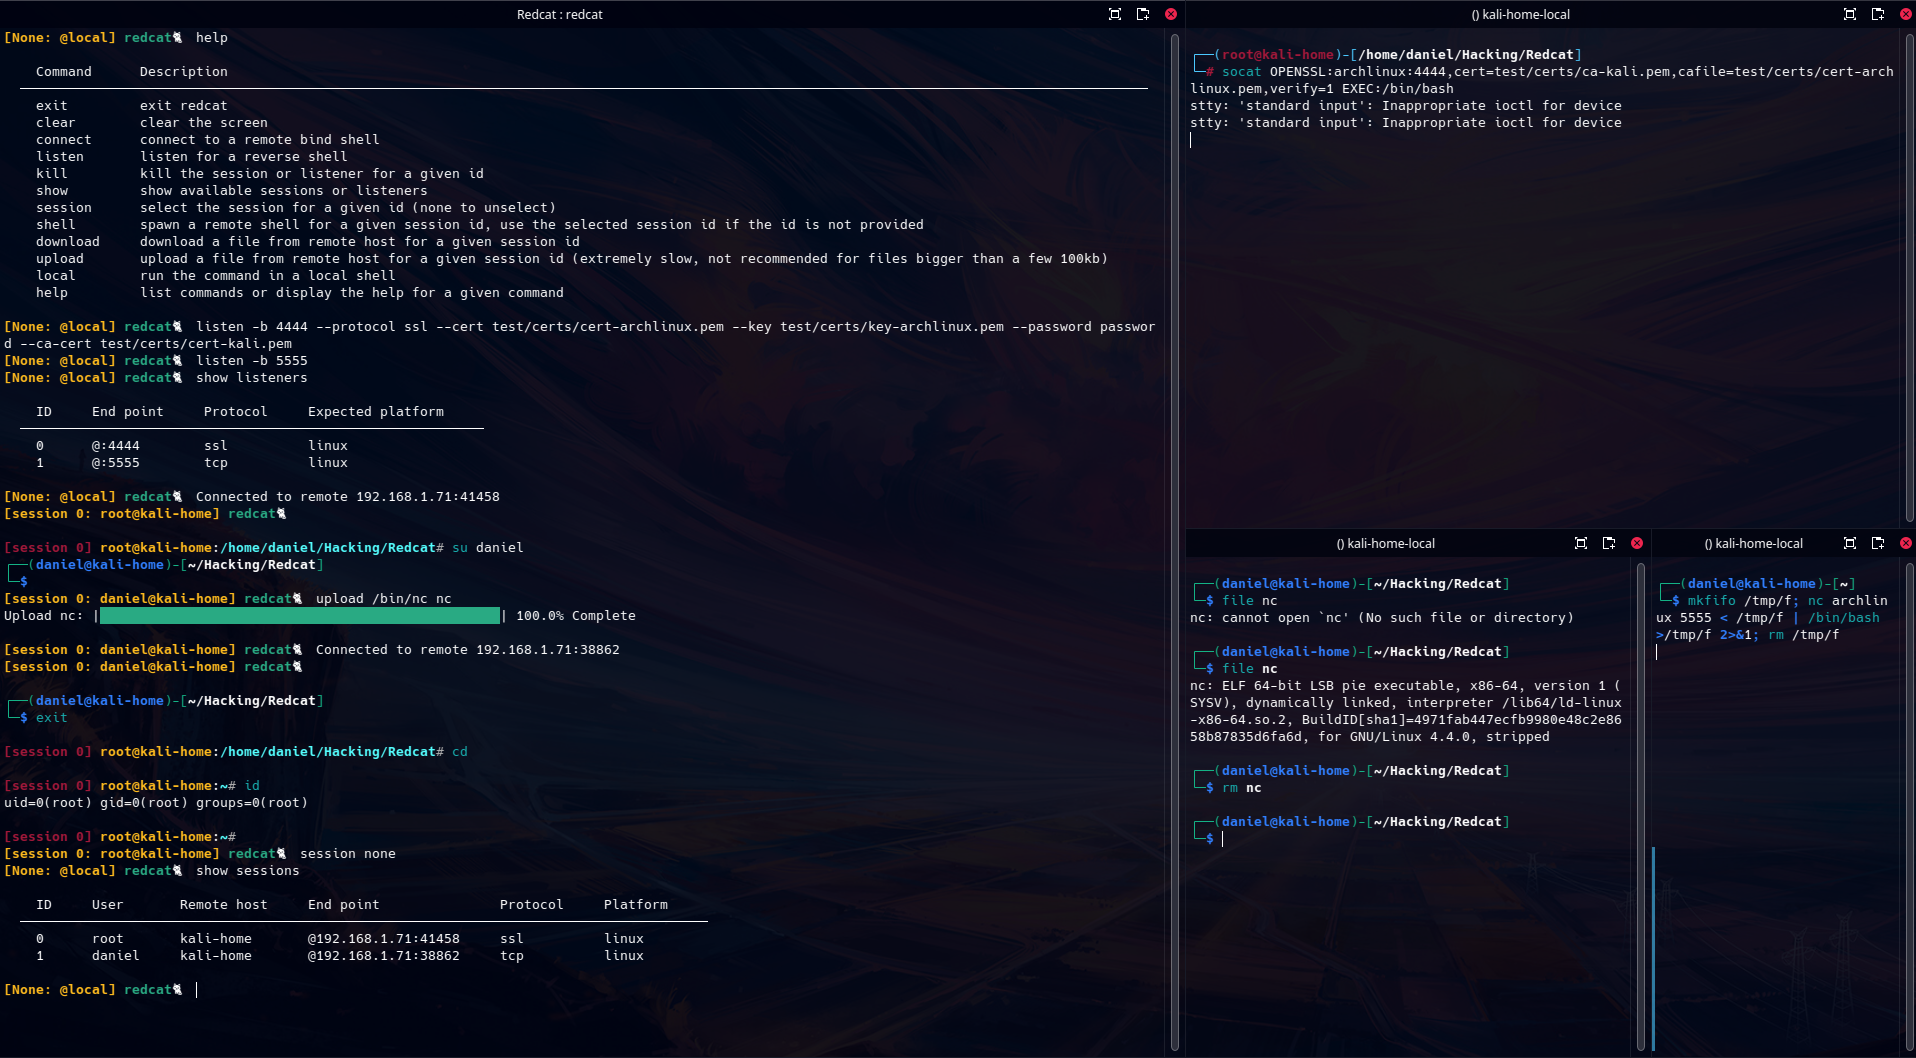
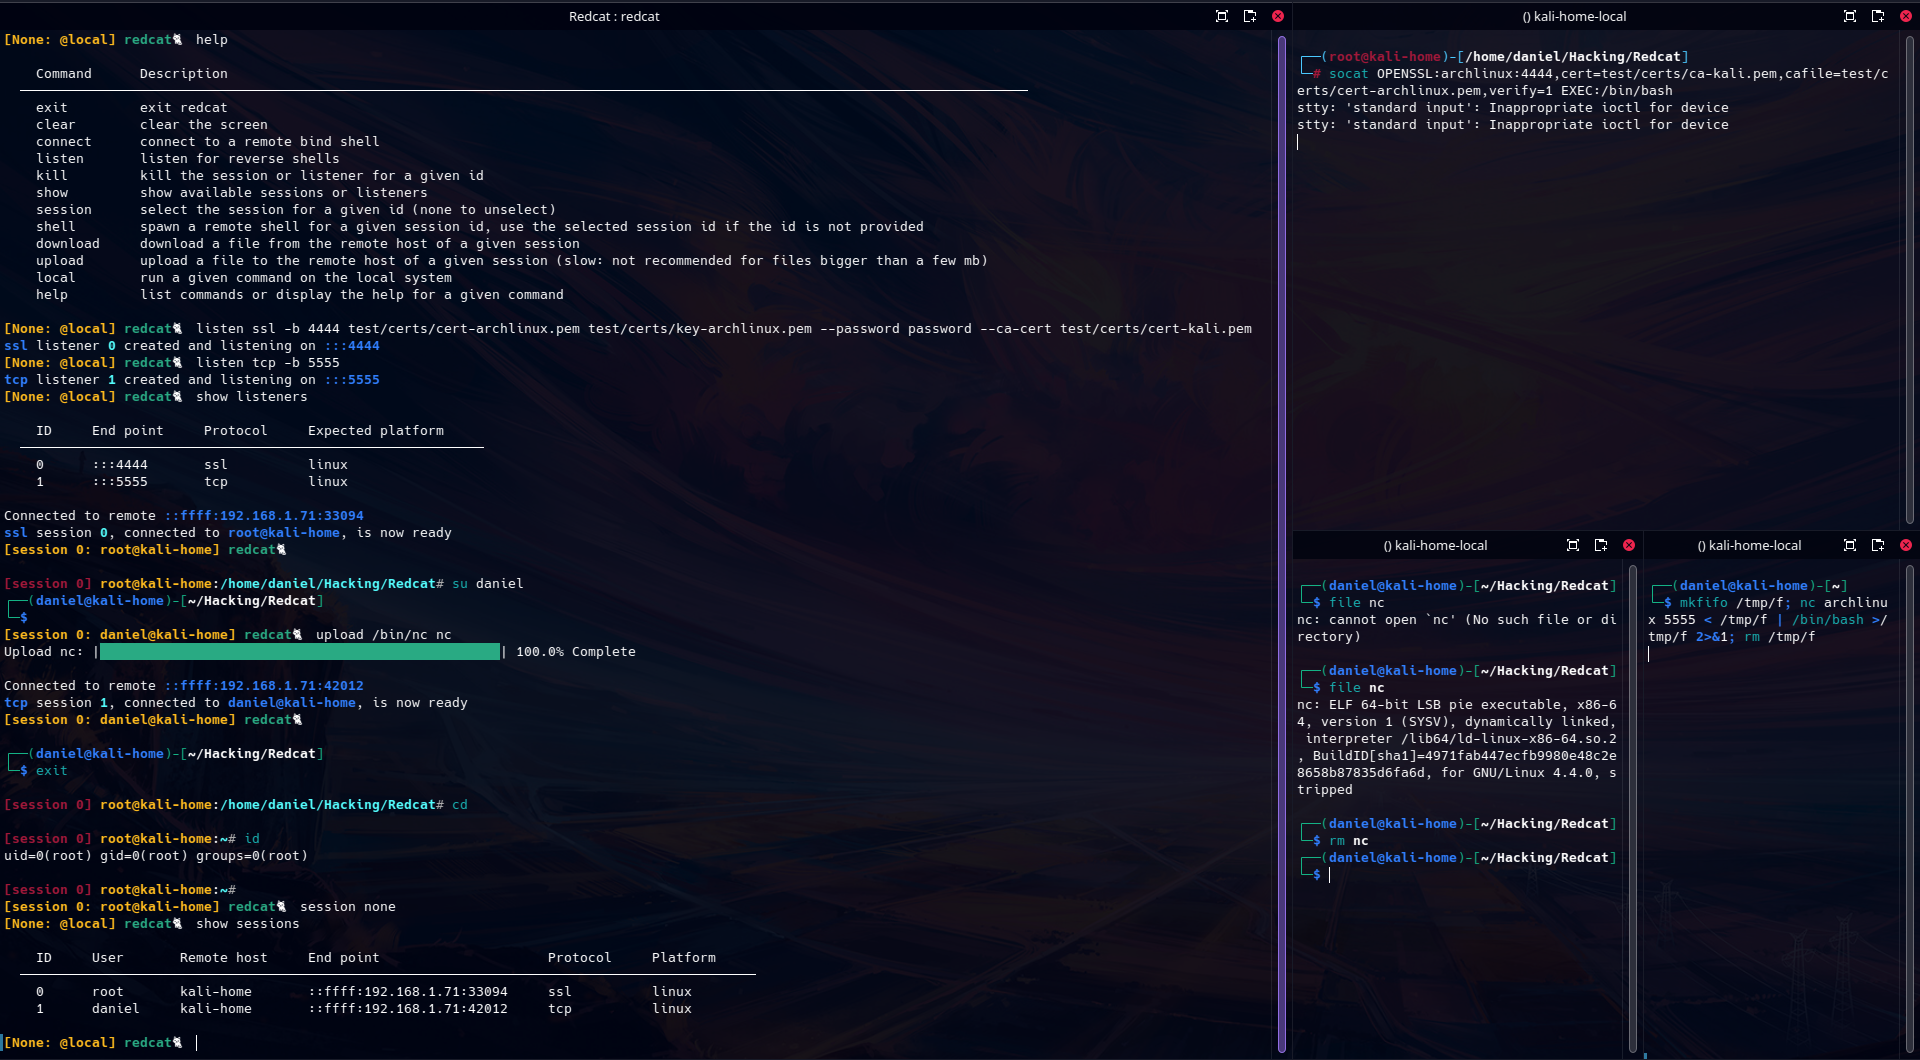
update: readme, capture and improve: logs

Changed region(s): [[0.0, 0.0, 1.0, 0.9981], [0.2463, 0.0, 0.3695, 0.0312]]

diff --git a/redcat/engine.py b/redcat/engine.py
@@ -171,13 +171,17 @@ class Engine:
             return res, error
         self.__commands[cmd_show.name] = cmd_show
         # select session command
-        cmd_session = redcat.command.Command("session", self.__manager.select_session, "select the session for a given id (none to unselect)")
-        @cmd_session.command(None)
+        cmd_session = redcat.command.Command("session", self, "select the session for a given id (none to unselect)")
+        @cmd_session.command(
+            [
+                redcat.command.argument("id", type=str, nargs=1, help="id of the session")
+            ]
+        )
         def session(parent: Engine, **kwargs) -> typing.Tuple[bool, str]:
             """
             select the session for a given id (none to unselect)
             """
-            res, error = parent.manager.session(**kwargs)
+            res, error = parent.manager.select_session(**kwargs)
             return res, error
         self.__commands[cmd_session.name] = cmd_session
         # remote shell command

diff --git a/redcat/manager.py b/redcat/manager.py
@@ -110,7 +110,9 @@ class Manager:
                             self.__selected_id = sess.id
                         res = True
                         if self.__logger_callback:
-                            self.__logger_callback(f"session {redcat.style.bold(redcat.style.blue(sess.id))}, connected to {sess.user}@{sess.hostname}, is now ready")
+                            self.__logger_callback(f"{redcat.style.bold(redcat.style.blue(sess.protocol[1]))} " + 
+                                f"session {redcat.style.bold(redcat.style.darkcyan(sess.id))}, " + 
+                                f"connected to {redcat.style.bold(redcat.style.blue(sess.user + '@' + sess.hostname))}, is now ready")
                     break
         if not res:
             sess.close()

diff --git a/redcat/listener/ssllistener.py b/redcat/listener/ssllistener.py
@@ -50,7 +50,8 @@ class SslListener(redcat.listener.tcplistener.TcpListener):
                     chan = self.build_channel(remote=remote, sock=sock, protocol=redcat.channel.ChannelProtocol.SSL, ssl_context=self.__ssl_context)
                 except Exception as err:
                     error = redcat.utils.get_error(err)
-                    print(redcat.style.bold(redcat.style.red("[!] error: ")) + error)
+                    if self.__logger_callback:
+                        self.__logger_callback(redcat.style.bold(redcat.style.red("[!] error: ")) + error)
                     chan = None # TODO: Think about a way to report this error
         return chan
 

diff --git a/redcat/listener/__init__.py b/redcat/listener/__init__.py
@@ -64,7 +64,9 @@ class Listener:
         if res:
             self.__thread = threading.Thread(target=self.__run)
             self.__thread.start()
-            self.__logger_callback(f"listener {redcat.style.blue(self.__id)} created and listening on {self.endpoint}")
+            self.__logger_callback(f"{redcat.style.bold(redcat.style.blue(self.protocol[1]))} listener " + 
+                f"{redcat.style.bold(redcat.style.darkcyan(self.__id))} created " +
+                f"and listening on {redcat.style.bold(redcat.style.blue(self.endpoint))}")
         else:
             self.__error_callback(self, error)
         return res, error

diff --git a/README.md b/README.md
@@ -1,6 +1,7 @@
 # Redcat
 
-A remote shell handler implemented in python for CTFs, pentest and red team engagements.
+A remote shell handler implemented in python for CTF, pentest and red team engagements.
+
 
 ## Features:
 * A session manager for handling mutiple listeners and shells at once.
@@ -11,5 +12,64 @@ A remote shell handler implemented in python for CTFs, pentest and red team enga
 * Basic data exfiltration for file download and upload.
 * Limited windows support (no pty).
 * Internal command-line completion.
+
+
+redcat handles the low level communications and allow the user to easily manage the remote shells and automate some actions like file upload and download.
+
+redcat mostly supports linux target platforms but minimal also provide minimal support for windows targets.
+
+
+## Sessions
+
+A session represents a single instance of communication between the attacker and a remote shell.
+
+Sessions can be created via listeners for reverse shells or directly using the `connect` command for bind shells.
+
+Sessions can be listed using the command `show sessions`
+
+The user can "select" a session that would act as the default session commands are called for when no session id is provided by the user.
+To select a session the user can use the command `session` followed by the session's id. `session none` command can be used to unselect the currently selected session.
+Note: if no session is selected, the next created session with be automatically selected.
+
+The user can spawn a shell for a given session using the command `shell` or alternatively if the session is selected by pressing `CTRL+D`.
+
+To pause a session's shell and go back to redcat main console, the user must press `CTRL+D`
+
+Finally to terminate a session, the user can call the `kill session` command or `exit` the tool.
+
+
+## Listing listener
+
+Listeners are used to catch reverse shells.
+
+redcat supports both IPv4 addresses, IPv6 addresses and hostnames. 
+If for a given hostname, multiple bind addresses are possible then redcat will bind on all of them.
+
+If no host or address are provided by the user then redcat will use "::" as default address. 
+
+A listener can be created using the `listen` command. If the `-b, --background` flag is provided then the listener will run in the background.
+Otherwise the listener will only accept a single reverse shell.
+
+To terminate a listener,  the user can call the `kill listener` command or `exit` the tool. 
+
+## Protocols
+
+redcat supports tcp and ssl/tls protocols.
+
+## Platforms
+
+redcat supports mostly linux targets platform: Upon receiving a new linux connection (either bind a shell or a reverse shell) it will performe the following actions:
+* Disabling shell command-line history
+* Enumerate usefuls binaries using `which`.
+* Spawn a pty shell for a fully interactive shell session
+* Normalize the shell prompt
+
+For windows, no particular action are performed, however CTRL+C events are ignored.
+
+## Upload/Download
+
+redcat provide basic data exfiltration using base64 encoding. While it can easily download any file, the upload function is much more limited in performance and can't be used to transfert any file bigger than a few Mb.
+
+## Capture
 
 ![redcat.png](img/redcat.png)
